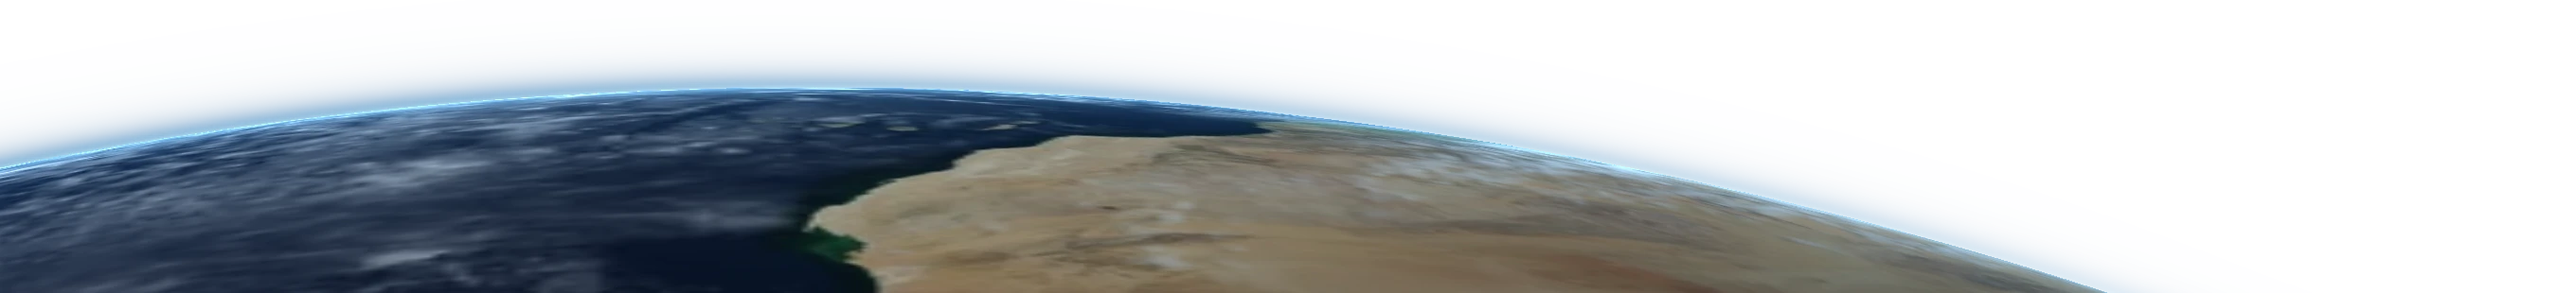
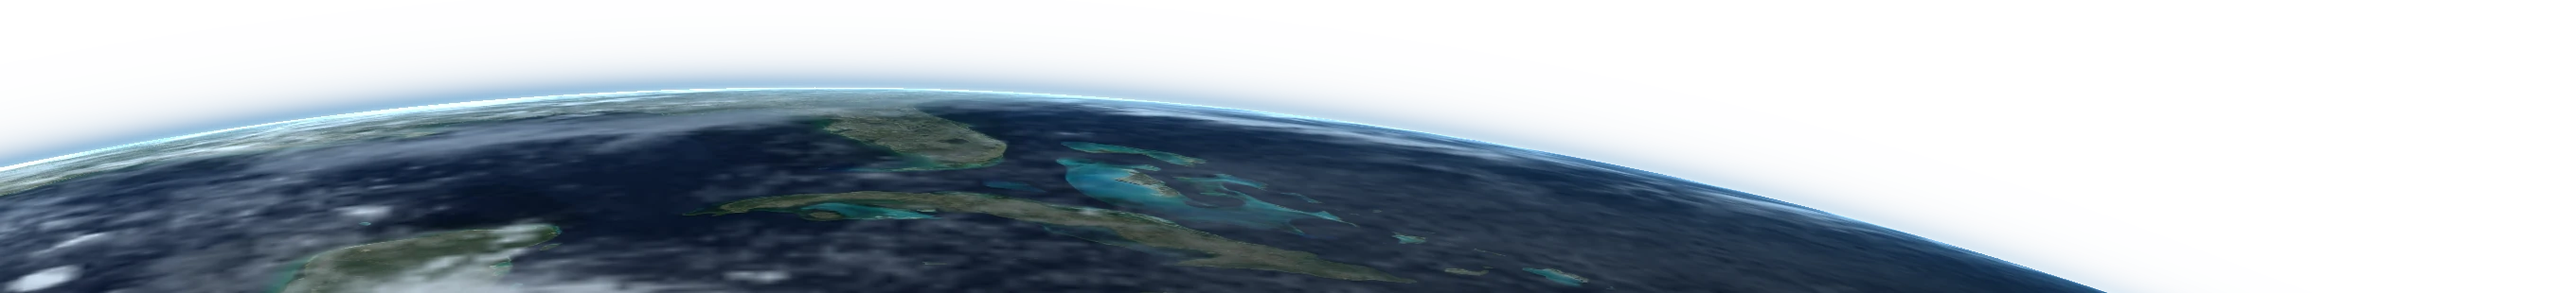
Clarify the fixed hub and bring the Caribbean horizon into focus

diff --git a/src/lab/styles/first-handoff.css b/src/lab/styles/first-handoff.css
@@ -4,7 +4,7 @@
 .handoff-header .micro span { margin: 0 4px; color: #89949a; }
 .first-handoff h1 { margin: 0; font-size: clamp(31px, 3.85vw, 52px); line-height: 1.08; letter-spacing: -.048em; font-weight: 420; }
 .handoff-sandbox { flex-shrink: 0; padding-block: 12px 5px; color: var(--lab-soft); font-size: 13px; text-decoration: none; }
-.handoff-sandbox span { margin-left: 6px; color: #e8ad89; }
+.handoff-sandbox svg { width: 13px; height: 13px; margin-left: 4px; vertical-align: -1px; stroke: #e8ad89; stroke-width: 1.4; fill: none; }
 .handoff-sandbox:hover { text-decoration: underline; text-underline-offset: 4px; }
 .handoff-board { display: grid; grid-template-columns: minmax(0, 1.85fr) minmax(305px, 1fr); border: 1px solid #35424b; background: #101619; }
 .handoff-visual { min-width: 0; display: grid; grid-template-rows: minmax(0,1fr) auto auto; }
@@ -18,6 +18,8 @@
 .handoff-swing, .handoff-trail, .handoff-leader { fill: none; stroke: #d9a17a; stroke-width: 1; }
 .handoff-swing { opacity: .49; }
 .handoff-trail { stroke: #ffb785; stroke-width: 1.5; stroke-dasharray: 3 3; }
+.handoff-hub-note path { fill: none; stroke: #6e8793; stroke-width: .8; }
+.handoff-hub-note text { fill: #b4c5cd; font: 12px var(--lab-mono); paint-order: stroke; stroke: #0a151b; stroke-width: 2px; }
 .handoff-leader { stroke: #c49471; stroke-width: .8; }
 .handoff-label { fill: #ffcca3; font: 500 12px var(--lab-mono); paint-order: stroke; stroke: #0b151b; stroke-width: 2px; }
 .handoff-transport { display: flex; align-items: center; gap: 15px; padding: 0 20px; min-height: 42px; background: #0c1216; border-top: 1px solid #34434a; border-bottom: 1px solid #2e393f; font: 11px var(--lab-mono); color: #b9c5cb; }
@@ -65,7 +67,8 @@
   .handoff-frame-caption, .handoff-reference { left: 12px; right: 12px; font-size: 9px; }
   .handoff-frame-caption { top: 11px; }
   .handoff-reference { bottom: 8px; }
-  .handoff-label { font-size: 15px; }
+  .handoff-diagram { top: 16px; height: calc(100% - 16px); }
+  .handoff-label, .handoff-hub-note text { font-size: 15px; }
   .handoff-transport { padding-inline: 12px; gap: 10px; }
   .handoff-story { display: grid; grid-template-columns: minmax(0,1fr); border-left: 0; border-top: 1px solid #35424b; padding: 16px; }
   .handoff-steps li span { display: inline; }

diff --git a/src/lab/HandoffDiagram.tsx b/src/lab/HandoffDiagram.tsx
@@ -59,6 +59,10 @@ export default function HandoffDiagram({ result, time, capture, release, end, vi
       <path d="m-5 0 2-3h5l2 3-2 3h-5z" fill="#899ca6" stroke="#e6eeeb" strokeWidth=".8"/>
       <path d="M-1-2.8V2.8" stroke="#3c505e" strokeWidth="2"/>
     </g>
+    <g aria-hidden="true" className="handoff-hub-note">
+      <path d={`M${HUB[0]-12} ${HUB[1]-6}l-12-11h-15`}/>
+      <text x={HUB[0]-44} y={HUB[1]-14} textAnchor="end">Tether hub</text>
+    </g>
     <svg className="handoff-hub" x={HUB[0]-24} y={HUB[1]-24} width="48" height="48" viewBox="-24 -24 48 48">
       <g transform={`rotate(${angle-90}) scale(.86)`}>
         <path d="M-19 0h38" stroke="#d8c7ac" strokeWidth="2"/>
@@ -85,7 +89,7 @@ export default function HandoffDiagram({ result, time, capture, release, end, vi
 export function CaptureDetail({ view }: { view: HandoffFrame | null }) {
   // A magnified coupling study, with compressed separation. Do not imply the
   // angular pose or the illustrated size of these parts is a solver output.
-  const separation = Math.min(25, 7 * Math.log1p((view?.gap ?? 22000)/650));
+  const separation = Math.min(45, 7 * Math.log1p((view?.gap ?? 22000)/650));
   const state = view?.phase === 'attached' ? 'Latched' : view?.phase === 'released' ? 'Released' : 'Open';
   return <figure className="capture-detail" aria-label={`Capture interface, ${state.toLowerCase()}. Illustrative close-up.`}>
     <figcaption><span>Capture interface</span><span>{state}</span></figcaption>

diff --git a/src/lab/FirstHandoff.tsx b/src/lab/FirstHandoff.tsx
@@ -107,7 +107,7 @@ export default function FirstHandoff({ result, error, onRetry, onContinue }: {
     <header className="handoff-header">
       <div><p className="micro">Flight Studio <span>/</span> Guided flight 01</p>
         <h1>Watch the first handoff.</h1></div>
-      <a className="handoff-sandbox" href="/lab/">Open the sandbox <span aria-hidden="true">↗</span></a>
+      <a className="handoff-sandbox" href="/lab/">Open the sandbox <svg viewBox="0 0 16 16" aria-hidden="true"><path d="M3 13 13 3M5 3h8v8"/></svg></a>
     </header>
     <div className="handoff-board">
       <section className="handoff-visual" aria-label="Flight replay">
@@ -152,6 +152,6 @@ export default function FirstHandoff({ result, error, onRetry, onContinue }: {
         </div>
       </section>
     </div>
-    <p className="handoff-footnote">Calculated trajectory · Time compressed <span>Hardware enlarged for visibility</span></p>
+    <p className="handoff-footnote">Calculated trajectory · Time compressed <span>Illustrative horizon · Hardware enlarged</span></p>
   </main>;
 }

diff --git a/scripts/render-handoff-earth.py b/scripts/render-handoff-earth.py
@@ -16,16 +16,23 @@ dist = (np.hypot(nx, ny)-1)*radius
 nz = np.sqrt(np.maximum(0, 1-nx*nx-ny*ny))
 tilt = np.deg2rad(36)
 lat = np.arcsin(np.clip(ny*np.sin(tilt)-nz*np.cos(tilt),-1,1))
-lon = np.arctan2(nx, ny*np.cos(tilt)+nz*np.sin(tilt)) + np.deg2rad(-17)
-def sample(name, du=0, dv=0):
+lon = np.arctan2(nx, ny*np.cos(tilt)+nz*np.sin(tilt)) + np.deg2rad(-83)
+def sample(name, du=0, dv=0, regional=False):
     tex = np.asarray(Image.open(root/'public/textures'/name).convert('RGB'), dtype='float32')/255
     h,w = tex.shape[:2]
     u,v = ((lon/(2*np.pi)+.5)*w+du)%w, np.clip((.5-lat/np.pi)*h+dv,0,h-1.01)
+    if regional:
+        # Same Blue Marble observation; this regional crop retains its native
+        # 2 km/pixel detail over the Caribbean and the Florida peninsula.
+        u = np.clip((np.rad2deg(lon)+105)/65*w,0,w-1.01)
+        v = np.clip((55-np.rad2deg(lat))/55*h,0,h-1.01)
     ix,iy = u.astype(int),v.astype(int)
     fx,fy = (u-ix)[:,:,None],(v-iy)[:,:,None]
     return ((tex[iy,ix]*(1-fx)+tex[iy,(ix+1)%w]*fx)*(1-fy)
           + (tex[iy+1,ix]*(1-fx)+tex[iy+1,(ix+1)%w]*fx)*fy)
 land = sample('earth.webp')
+in_crop = (np.rad2deg(lon)>-105) & (np.rad2deg(lon)<-40) & (np.rad2deg(lat)>0) & (np.rad2deg(lat)<55)
+land = np.where(in_crop[:,:,None], sample('earth-launch-atlantic.webp',regional=True), land)
 cloud = sample('earth-clouds.webp')[:,:,0]**.88
 shadow = sample('earth-clouds.webp',1.4,-.8)[:,:,0]
 land = land*(1-.33*shadow[:,:,None])
